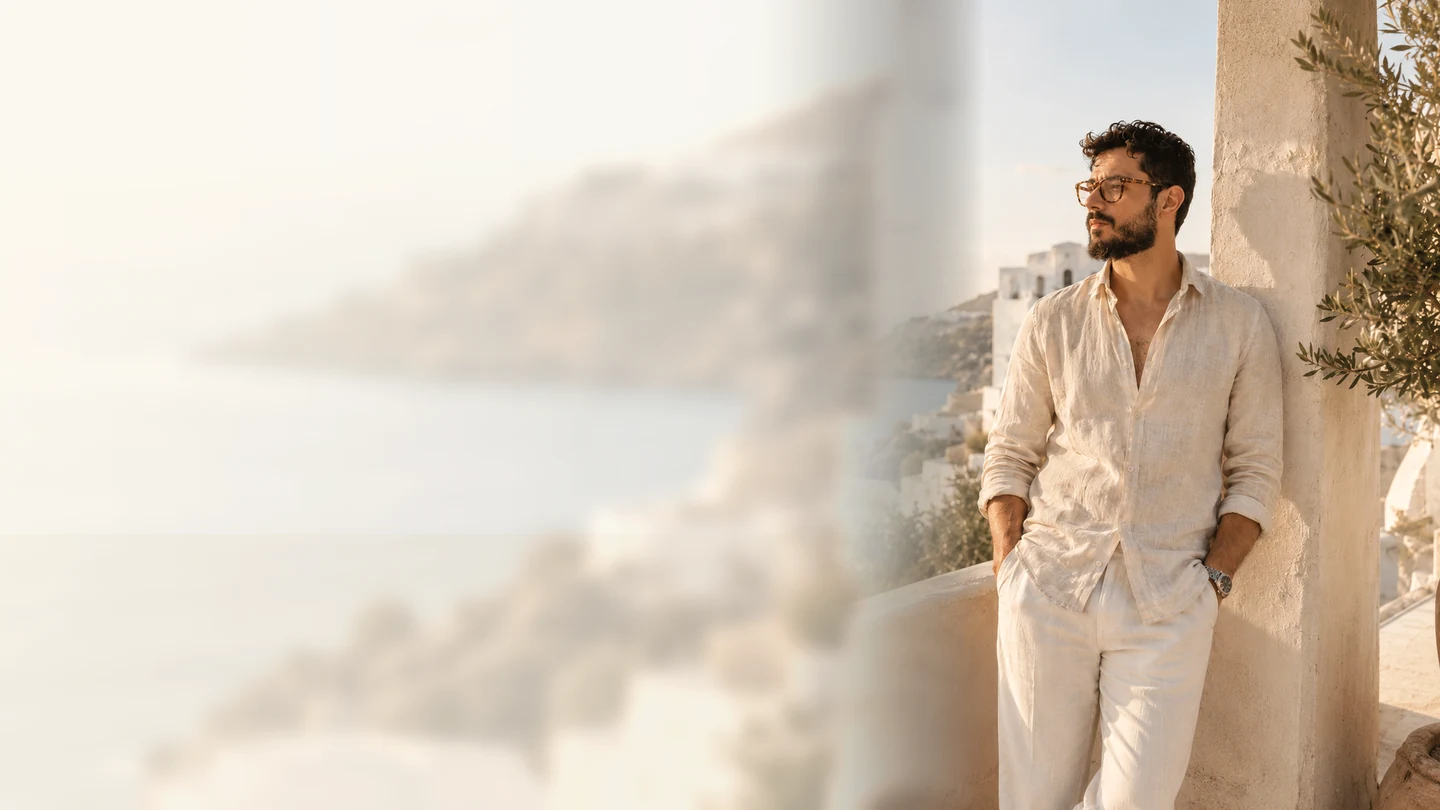
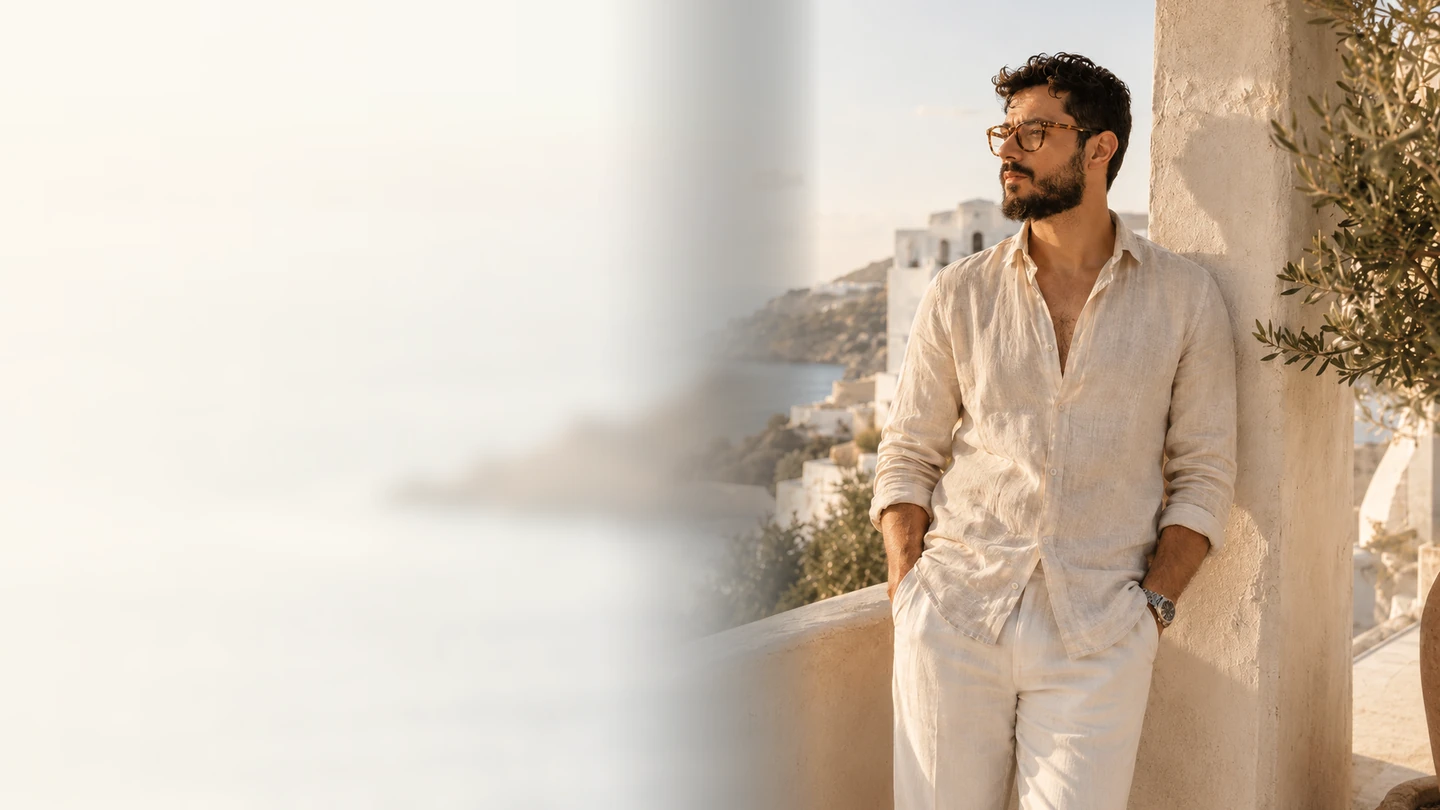
fix: refine mediterranean hero composition

diff --git a/src/pages/HomePage.tsx b/src/pages/HomePage.tsx
@@ -232,7 +232,7 @@ const HomePage: React.FC = () => {
       />
 
       {/* HERO SECTION */}
-      <section className="relative min-h-screen flex items-center justify-center text-center overflow-hidden pt-20 pb-12" aria-label="Introduction">
+      <section className="relative min-h-screen flex items-center overflow-hidden pt-20 pb-12 text-center md:text-left" aria-label="Introduction">
         <div className="absolute inset-0 z-0 bg-background">
             <motion.div initial={{ scale: 1.1 }} animate={{ scale: 1 }} transition={{ duration: 12, ease: "linear" }} className="w-full h-full">
               <picture>
@@ -261,8 +261,8 @@ const HomePage: React.FC = () => {
           <div className="absolute inset-0 bg-gradient-to-t from-background via-background/50 to-background/20" />
         </div>
 
-        <div className="container mx-auto px-4 relative z-10">
-          <div className="max-w-4xl mx-auto">
+        <div className="container mx-auto px-4 relative z-10 w-full">
+          <div className="max-w-4xl mx-auto md:ml-0 md:mr-auto">
             {/* H1 fora do container animado — sempre visível para crawlers e LCP */}
             <h1 className="text-4xl sm:text-5xl md:text-7xl lg:text-8xl font-bold font-display tracking-tight mb-4">
               <span className="text-text">Zen</span> <span className="text-primary">Eyer</span>
@@ -285,11 +285,11 @@ const HomePage: React.FC = () => {
               "{t('home.hero_slogan')}"
             </motion.p>
 
-            <motion.div variants={ITEM_VARIANTS} className="grid grid-cols-1 md:grid-cols-3 gap-4 max-w-xl mx-auto mb-10">
+            <motion.div variants={ITEM_VARIANTS} className="grid grid-cols-1 md:grid-cols-3 gap-4 max-w-xl mx-auto md:mx-0 mb-10">
               {stats.map(stat => <StatCard key={stat.labelKey} value={stat.value} label={t(stat.labelKey as unknown as Parameters<typeof t>[0])} icon={stat.icon} />)}
             </motion.div>
 
-            <motion.div variants={ITEM_VARIANTS} className="flex flex-col sm:flex-row flex-wrap gap-3 sm:gap-4 justify-center mb-6">
+            <motion.div variants={ITEM_VARIANTS} className="flex flex-col sm:flex-row flex-wrap gap-3 sm:gap-4 justify-center md:justify-start mb-6">
               <a
                 href={safeUrl(ARTIST.social.soundcloud.url, '/')}
                 target="_blank"
@@ -310,7 +310,7 @@ const HomePage: React.FC = () => {
               </Link>
             </motion.div>
 
-            <motion.p variants={ITEM_VARIANTS} className="text-sm md:text-base text-text/60 max-w-2xl mx-auto leading-relaxed">
+            <motion.p variants={ITEM_VARIANTS} className="text-sm md:text-base text-text/60 max-w-2xl mx-auto md:mx-0 leading-relaxed">
               <Trans
                 i18nKey="home.hero_cta_text"
                 components={[